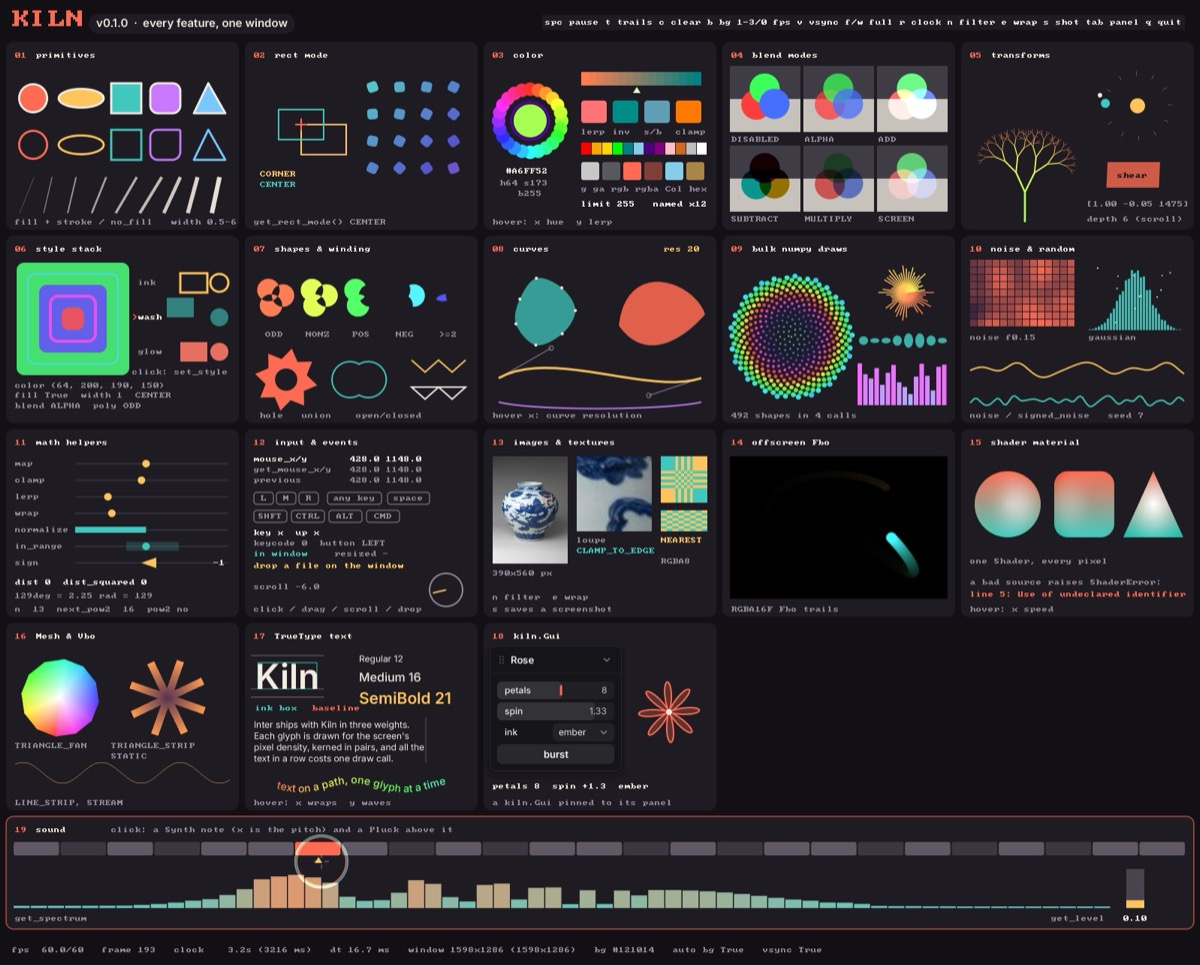
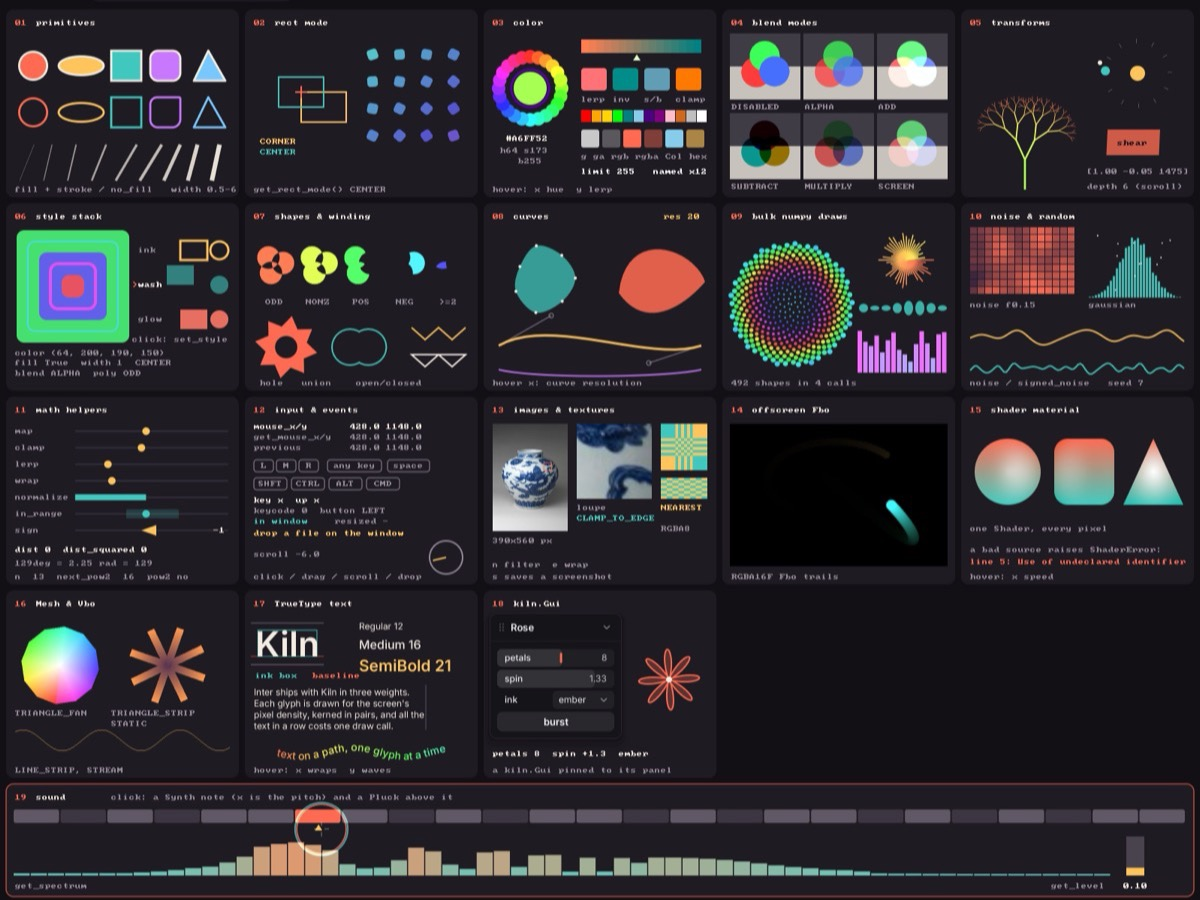
Projects: merge one-card sections, Kiln wide, Nimrod copy fixes
Review fixes: see ~/.omc/reports/2026-10-11-sisyphe-recent-work/review-2026-10-12.md

diff --git a/theme.scss b/theme.scss
@@ -194,6 +194,9 @@ pre { background: var(--panel); border: 1px solid var(--rule); border-radius: 6p
     h3 { margin: 0; } p { margin: 0; color: var(--ink-2); }
     .card-link { margin-top: auto; padding-top: 0.6rem; font-weight: 600; } }
   .status { color: var(--ink); } }
+.proj.wide { grid-column: 1 / -1; display: grid; grid-template-columns: minmax(0, 1fr) minmax(0, 1fr);
+  .fig { aspect-ratio: 4 / 3; border-bottom: 0; border-right: 1px solid var(--rule); }
+  @media (max-width: 720px) { grid-template-columns: 1fr; .fig { border-right: 0; border-bottom: 1px solid var(--rule); } } }
 .projgrid.compact { grid-template-columns: repeat(auto-fit, minmax(220px, 1fr)); }
 // Services: Build / Research and advise / Teach groups, with a field label on each offering.
 .group-lede { margin: -0.4rem 0 0.6rem; max-width: 40rem; }
